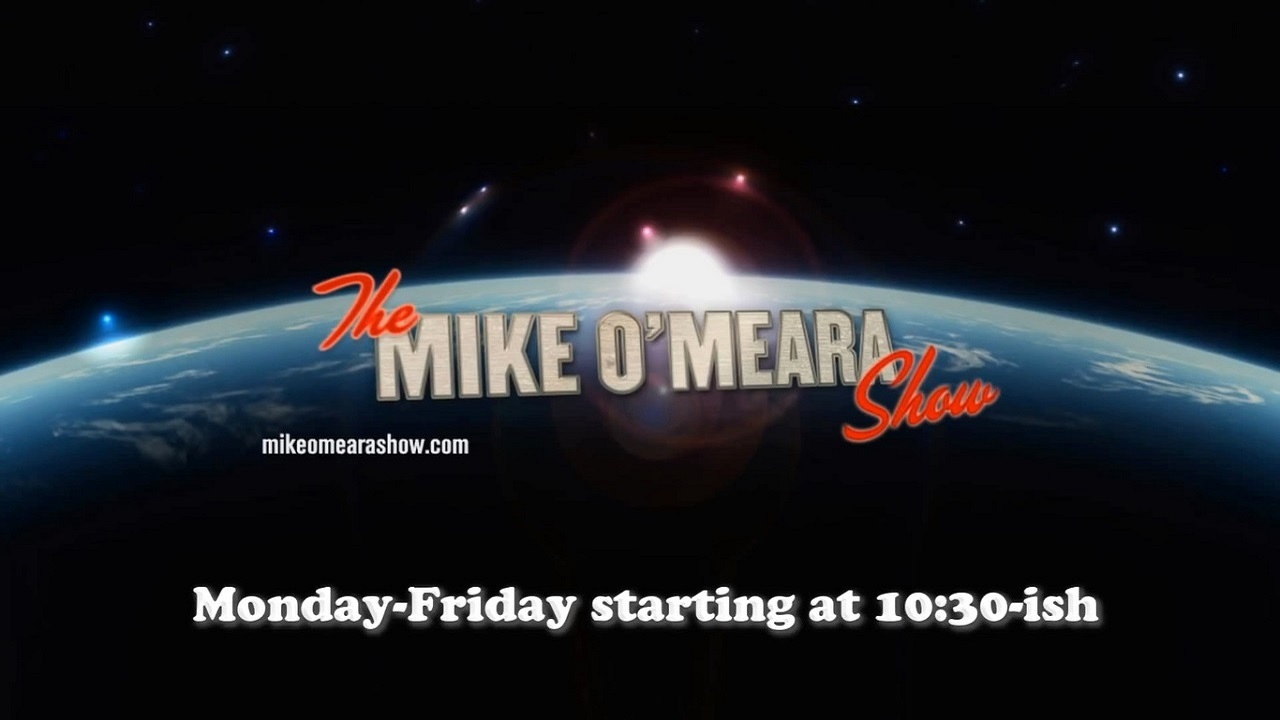
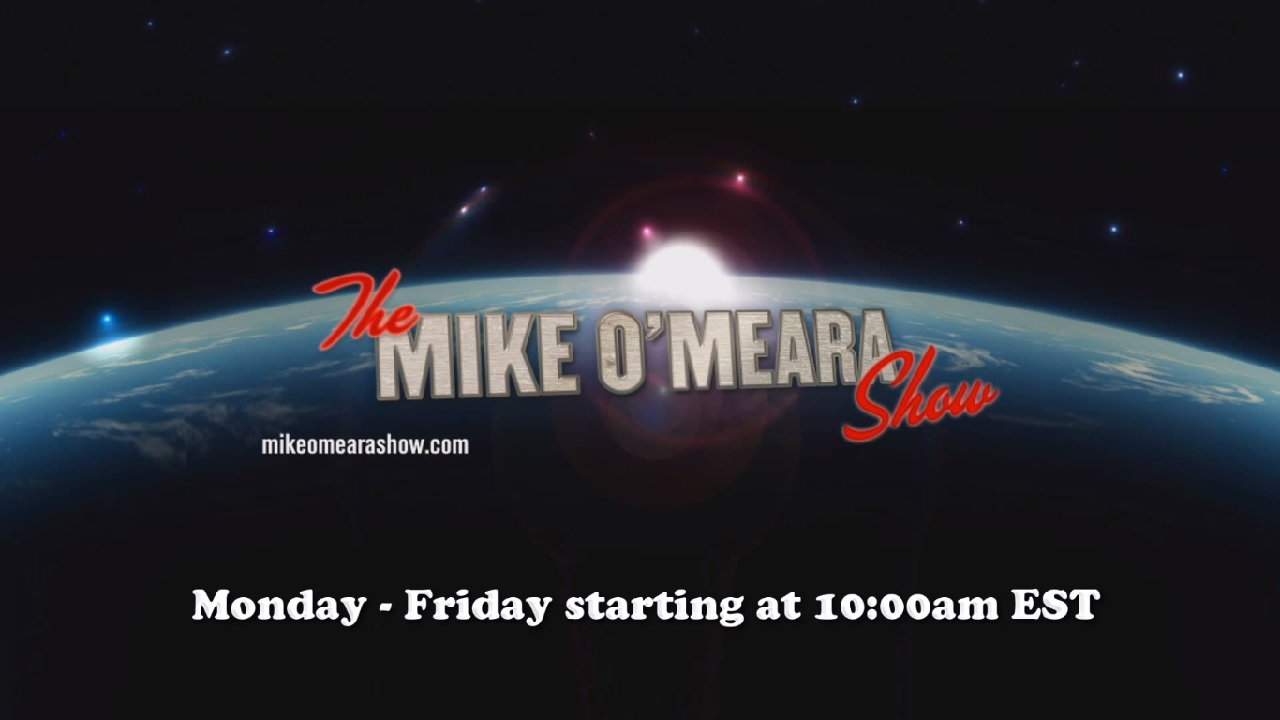
Update of live stream time

diff --git a/addon.py b/addon.py
@@ -30,7 +30,7 @@ def show_tmos_list():
    'path': 'plugin://plugin.video.youtube/channel/UCtO6jOECGV2FQHj4RGOXyDA/?page=1',
   },
 
-  {'label': 'TMOS Live Ustream (Mon. through Fri. 10:30am EDT)',
+  {'label': 'TMOS Live Ustream (Mon. through Fri. 10:00am EST)',
    'thumbnail': 'special://home/addons/plugin.video.tmos/icon.png',
    'path': 'http://sjc-uhls-proxy.ustream.tv/watch/playlist.m3u8?cid=4443605',
    'is_playable': True,
